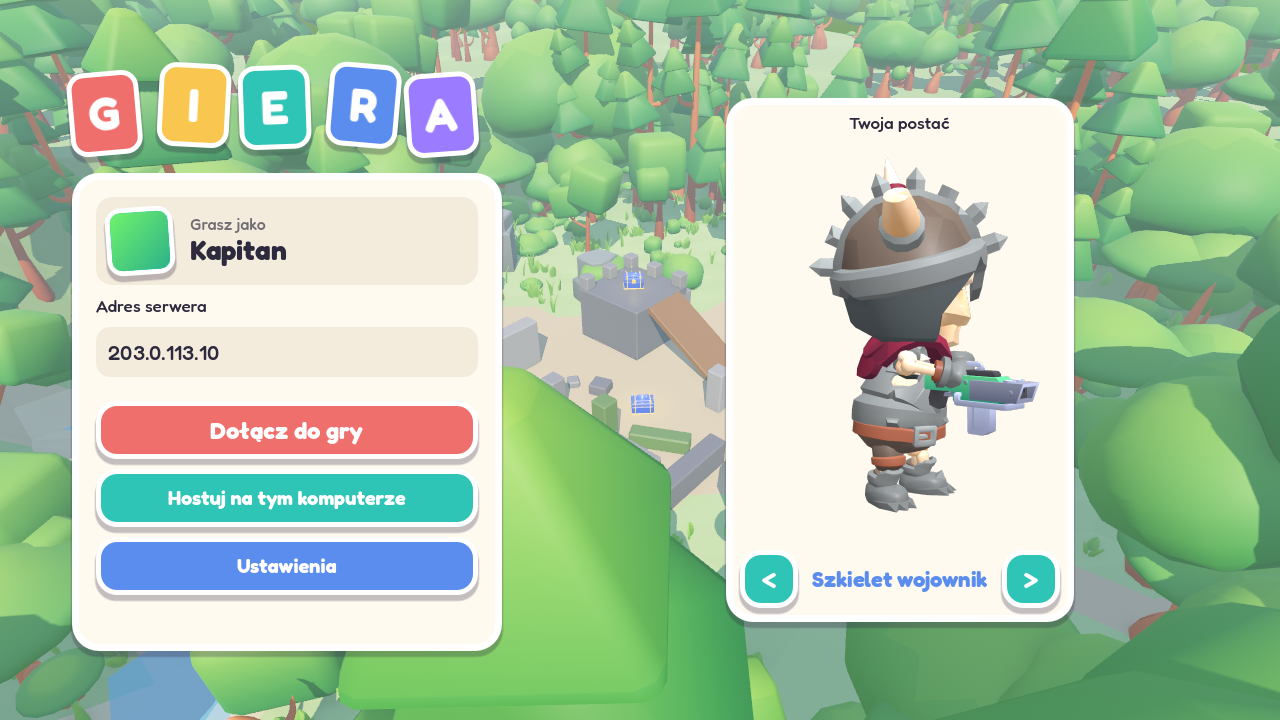
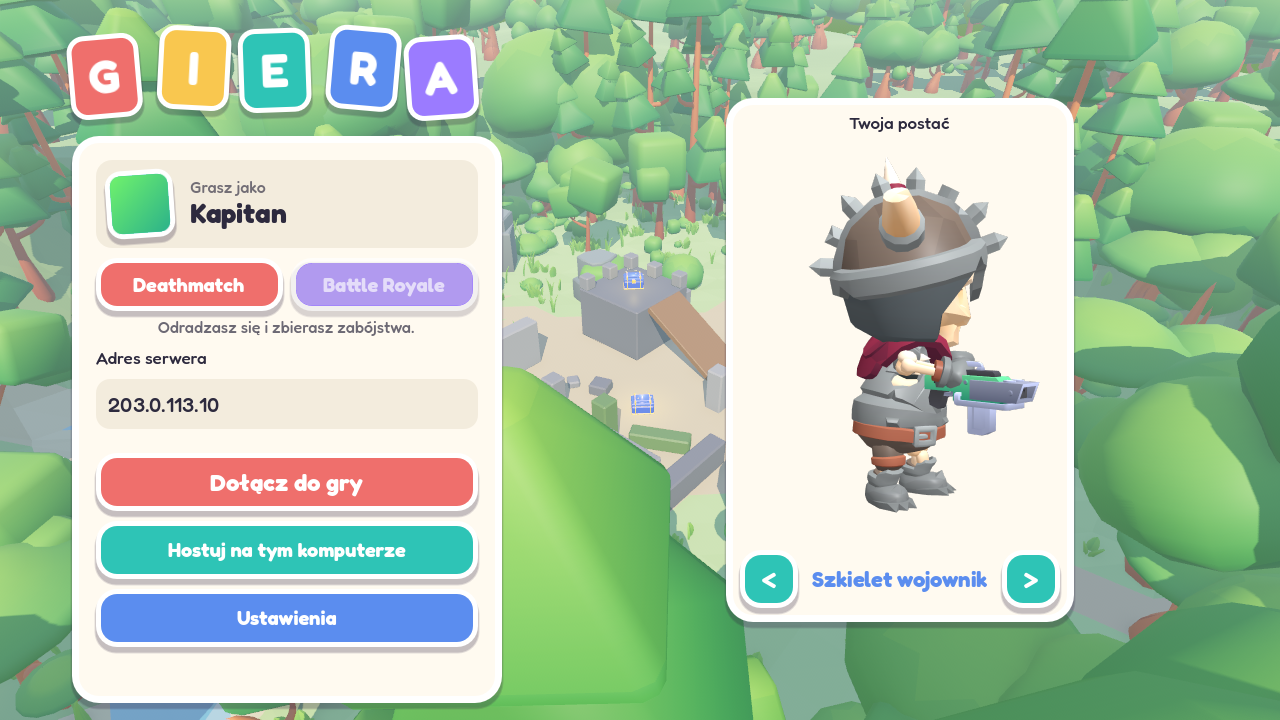
Add Battle Royale map, match table and kill feed weapons
The map shows the zone, its next circle and your position. The kill feed names
the weapon and, in Battle Royale, how many players remain. The scoreboard shows
each player's status, and the match has start and end sounds. Screenshots are in
the README. The weapon travels in the player state, so older clients still work.

Changed region(s): [[0.0312, 0.55, 0.4062, 1.0], [0.0312, 0.0306, 0.4062, 0.5194]]

diff --git a/README.md b/README.md
@@ -8,6 +8,10 @@ Kolorowa strzelanka FPS multiplayer, w której gracze walczą jako małe figurki
 |---|---|---|---|
 | ![Otwieranie skrzynki](docs/screenshots/chest_open.png) | ![Bronie na ziemi](docs/screenshots/loot.png) | ![Celowanie](docs/screenshots/aim.png) | ![Wybuch granatu](docs/screenshots/grenade.png) |
 
+| Lobby Battle Royale | Poza strefą | Wyniki meczu |
+|---|---|---|
+| ![Lobby Battle Royale](docs/screenshots/br_lobby.png) | ![Gracz poza strefą](docs/screenshots/br_zone.png) | ![Wyniki meczu](docs/screenshots/br_results.png) |
+
 | Koło tańców | Taniec |
 |---|---|
 | ![Koło tańców](docs/screenshots/dance_wheel.png) | ![Taniec](docs/screenshots/dance.png) |
@@ -19,7 +23,7 @@ Kolorowa strzelanka FPS multiplayer, w której gracze walczą jako małe figurki
 ## Co jest w grze
 
 - **Dwa tryby:** wybierasz je w menu głównym. Deathmatch to walka z odradzaniem, a w Battle Royale masz jedno życie.
-- **Battle Royale:** gracze czekają w lobby, aż wszyscy klikną Gotowe. Każdy startuje w innym miejscu i bez broni, więc pierwsze sekundy to wyścig do skrzynek. Strefa zacieśnia się w czterech fazach, a wyeliminowani oglądają mecz do końca.
+- **Battle Royale:** gracze czekają w lobby, aż wszyscy klikną Gotowe. Każdy startuje w innym miejscu i bez broni, więc pierwsze sekundy to wyścig do skrzynek. Strefa zacieśnia się w czterech fazach, a mapka pokazuje, dokąd uciekać. Wyeliminowani oglądają mecz do końca.
 - **Multiplayer na żywo:** serwer dedykowany albo hostowanie z menu. Ruch reaguje od razu, a strzały liczą się tam, gdzie gracz widział cel na ekranie.
 - **Trzy klasy broni:** zwykła, epicka i legendarna, każda z własnym modelem, parametrami, smugą i dźwiękiem.
 - **Rozrzut:** najcelniej strzela się w miejscu i pierwszym pociskiem. Rośnie w ruchu, w skoku i w długiej serii, ale tylko do limitu, a lepsza broń ma go mniej. Celownik pokazuje go na żywo, a celowanie go zmniejsza.
@@ -28,6 +32,7 @@ Kolorowa strzelanka FPS multiplayer, w której gracze walczą jako małe figurki
 - **Ekwipunek na 4 sloty:** szybka zmiana broni klawiszami lub scrollem, osobna amunicja w każdej broni.
 - **Skrzynki z łupem:** rozsiane po mapie, otwierane przez przytrzymanie klawisza. Każda daje jeden przedmiot: blaster, strzelbę, nóż, apteczkę albo granat, a po minucie wraca. Wśród broni z klasami 55% to zwykłe, 35% epickie i 10% legendarne.
 - **Tańce:** przytrzymanie klawisza otwiera koło z 6 tańcami, każdy z własnym ruchem i muzyką, którą słyszą też gracze obok. Kamera odjeżdża wtedy za postać, a każdy ruch przerywa taniec.
+- **Lista zabójstw:** pokazuje, kto kogo zabił i jaką bronią.
 - **Podnoszenie i wyrzucanie:** bronie leżą na ziemi, a po śmierci wypadają dla innych.
 - **Apteczki:** przytrzymanie strzału przez 2,5 s leczy o 50 punktów.
 - **Granaty:** przytrzymanie odbezpiecza, a puszczenie rzuca, więc można skrócić czas do wybuchu. Im bliżej wybuchu, tym większe obrażenia, a tuż obok giniesz od razu.

diff --git a/docs/PLAN_BATTLE_ROYALE.md b/docs/PLAN_BATTLE_ROYALE.md
@@ -1,6 +1,6 @@
 # Plan: battle royale
 
-Kroki 1–4 są zrobione. Battle Royale to osobny tryb obok Deathmatchu: każdy tryb ma własny serwer i port (`compose.yaml`), a gracz wybiera tryb w menu głównym.
+Kroki 1–5 są zrobione. Battle Royale to osobny tryb obok Deathmatchu: każdy tryb ma własny serwer i port (`compose.yaml`), a gracz wybiera tryb w menu głównym.
 
 ## Zasady
 
